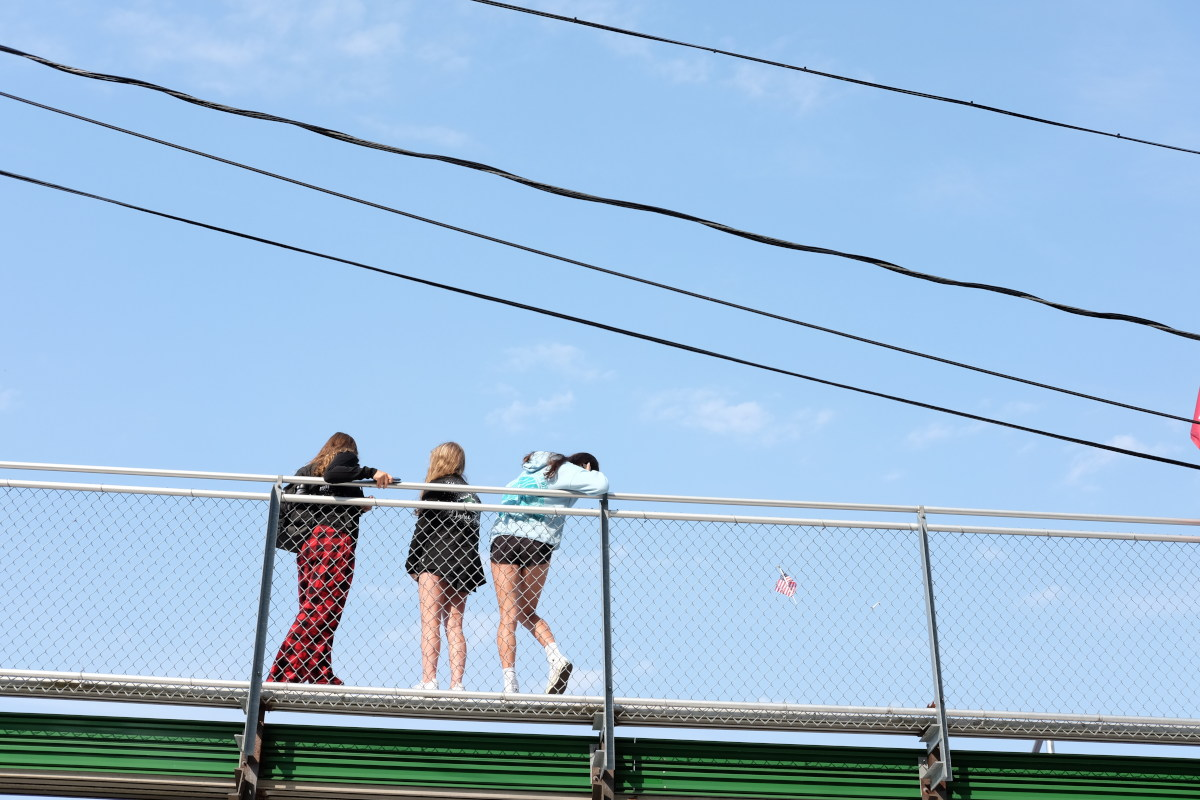
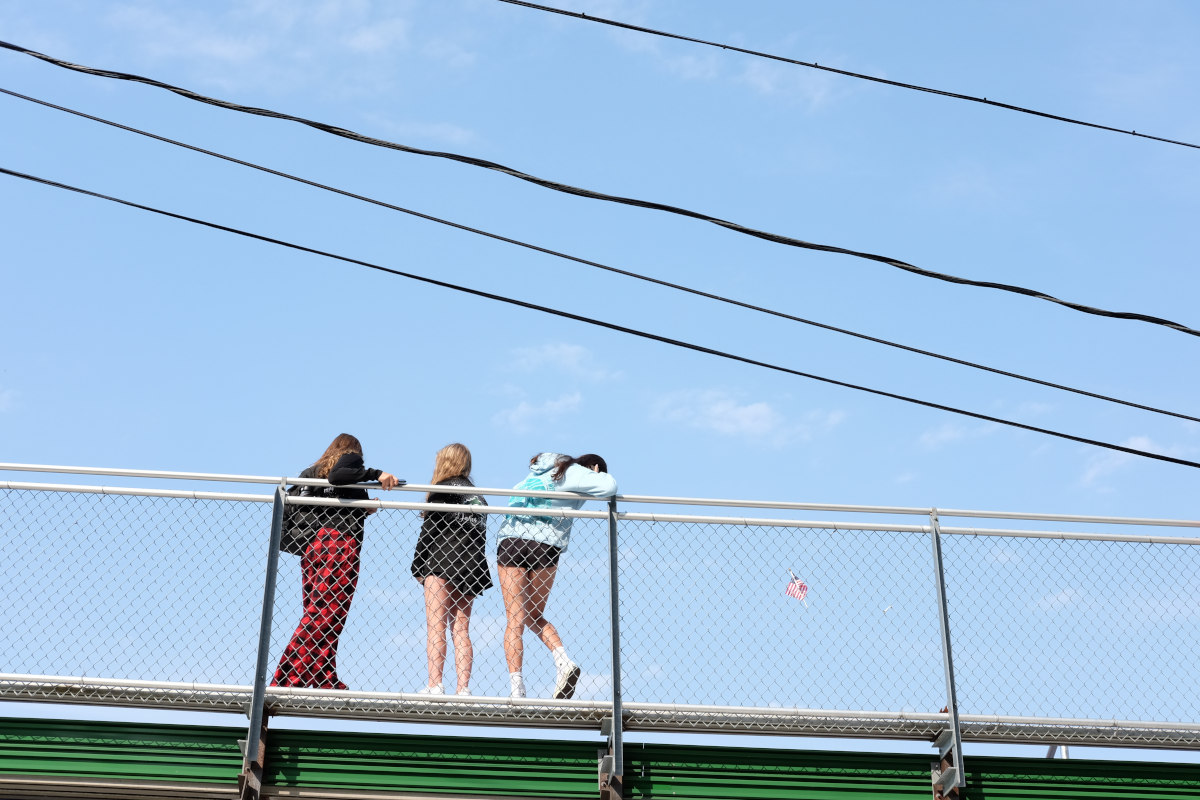
added a bunch of pics, this may not work lol

diff --git a/index.html b/index.html
@@ -10,8 +10,8 @@
     </head>
     <body>
         <div class="header">
-            <img class=headerImg src="images\logoTransparent.PNG">
-            <img class=headerImg src="images\calligraphyName.png">
+            <img class="headerImg" src="images\logoTransparent.PNG">
+            <img class="headerImg" src="images\calligraphyName.png">
         </div>
         
         <nav class="navbar">
@@ -21,6 +21,8 @@
 
         <div class="grid">
             <div class="grid-sizer"></div>
+            <div class="grid-item"><ing src="images\photos\DSCF3606c.JPG"></div>
+            <div class="grid-item"><ing src="images\photos\DSCF2282c.JPG"></div>
             <div class="grid-item"><img src="images\photos\DSCF9501c.JPG"></div>
             <div class="grid-item"><img src="images\photos\DSCF9437c.JPG"></div>
             <div class="grid-item"><img src="images\photos\DSCF9283c.JPG"></div>

diff --git a/layout.js b/layout.js
@@ -9,6 +9,7 @@ var mason = new Masonry(grid, {
 imagesLoaded(grid).on('progress',
     function() {
         mason.layout();
+        // resizeTime();
     }
 );
 
